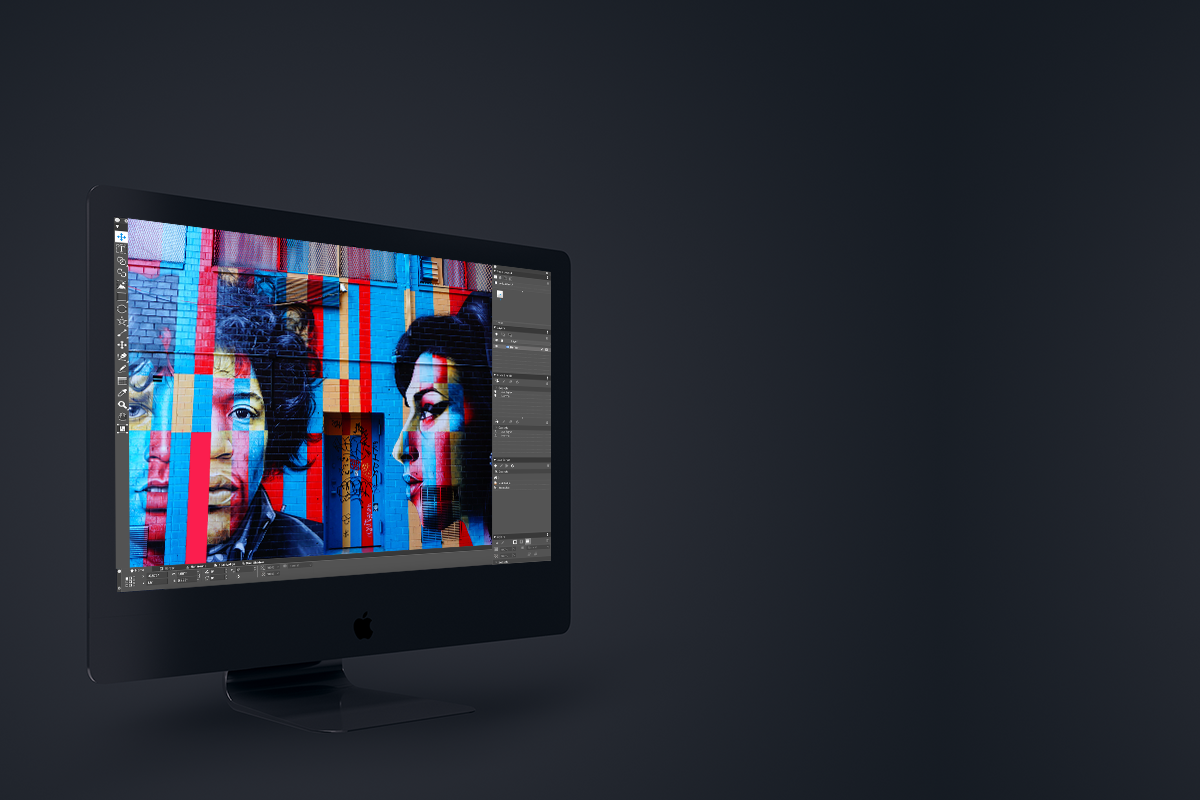
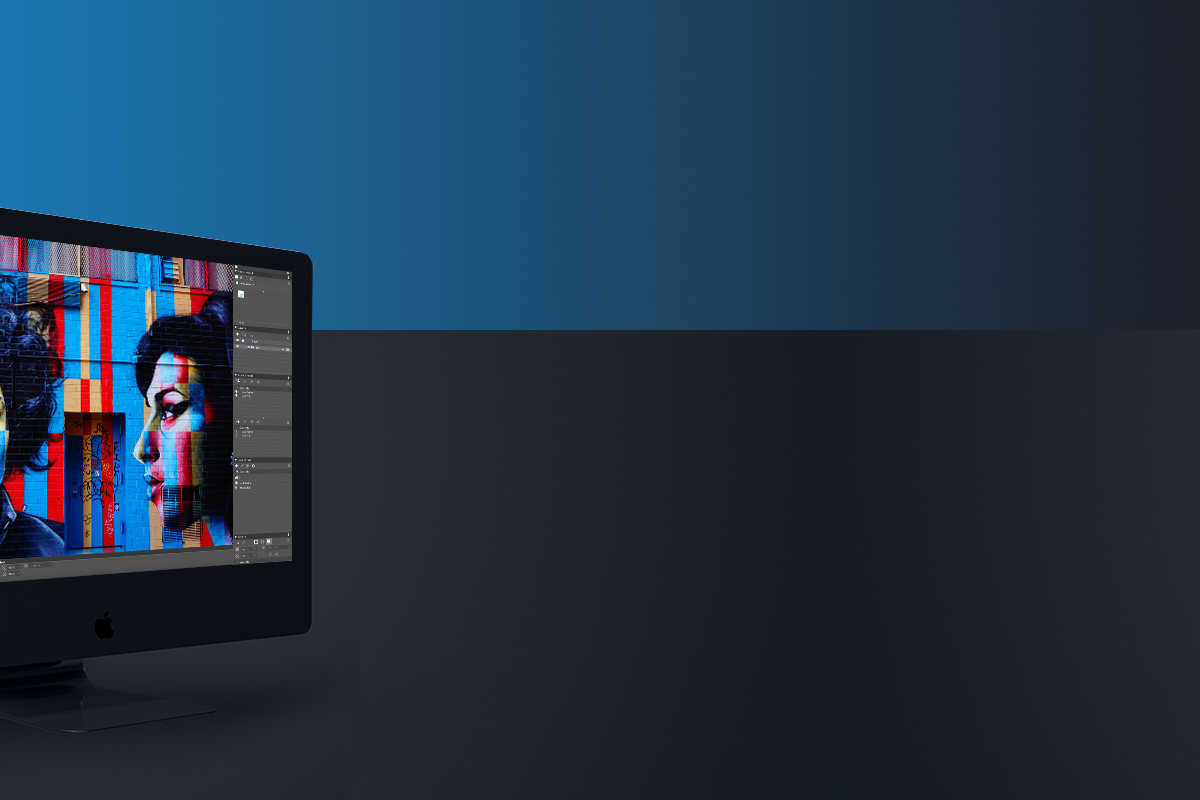
Updated css

diff --git a/customer-engagements/TrialScreen/src/app/trial-screen/trial-screen.component.scss b/customer-engagements/TrialScreen/src/app/trial-screen/trial-screen.component.scss
@@ -10,11 +10,9 @@
 
     .background {
         display: block;
-        height: fit-content;
-        position: absolute;
-        left: -241px;
+        height: 110%;
         -webkit-user-drag: none;
-        width: -webkit-fill-available;
+        width: 100%;
     }
 
     .thanks-container {
@@ -29,18 +27,21 @@
 
         .thank-you-text {
             font-family: 'Roboto Bold';
-            font-size: 4.25vmin;
+            font-size: 3.25vmin;
             color: #ffffff;
+            text-transform: uppercase;
         }
     }
 
     .welcome-kit-container {
         position: absolute;
-        top: 30%;
-        left: 35%;
+        top: 28%;
+        left: 30%;
         font-family: 'Roboto Regular';
-        font-size: 2.25vmin;
+        font-size: 2.5vmin;
         color: #ffffff;
+        line-height: 1.4;
+        padding-right: 20px;
 
         ul {
             list-style: none; /* Remove default bullets */
@@ -73,11 +74,13 @@
         display: block;
         height: auto;
         text-align: center;
+        white-space: pre-wrap;
         -webkit-user-drag: none;
         user-select: none;
         font-family: 'Roboto Regular';
-        font-size: 2.5vmin;
+        font-size: 3vmin;
         color: #ffffff;
+        margin-top: 10px;
     }
 
     .close {
@@ -91,20 +94,23 @@
     .contact-container {
         position: absolute;
         top: 45%;
-        left: 35%;
+        left: 30%;
         display: flex;
         flex-direction: column;
         user-select: none;
         line-height: 1.65;
         color: #ffffff;
         font-family: 'Roboto Regular';
-        font-size: 2.25vmin;
+        font-size: 2.8vmin;
+
+        .message {  
+            padding-top: 20px;
+        }
 
         .contact-details-container {
             display: flex;
             flex-direction: row;
             flex-wrap: wrap;
-            margin-top: 20px;
 
             .details {
                 display: flex;
@@ -114,6 +120,7 @@
                 margin-top: 20px;
 
                 .location {
+                    font-size: 2.8vmin;
                     font-family: 'Roboto Bold';
                     color: #1796e8;
                 }

diff --git a/customer-engagements/TrialScreen/src/app/trial-screen/trial-screen.component.ts b/customer-engagements/TrialScreen/src/app/trial-screen/trial-screen.component.ts
@@ -13,7 +13,8 @@ export class TrialScreenComponent implements OnInit {
   constructor(private translateService: TranslateService) { }
 
   ngOnInit() {
-    this.thankYouMessage = this.translateService.localize('thankYouMsg').replace('^1', '<img src="assets/images/qxp-logo.png" />');
+    this.thankYouMessage = this.translateService.localize('thankYouMsg')
+      .replace('^1', '<img class=\'qxp-logo\' src="assets/images/qxp-logo.png" />');
   }
 
   closeDialog() {

diff --git a/customer-engagements/TrialScreen/src/styles.scss b/customer-engagements/TrialScreen/src/styles.scss
@@ -23,3 +23,7 @@ body {
 body {
     overflow: hidden;
 }
+
+.qxp-logo {
+    vertical-align: text-bottom;
+}
